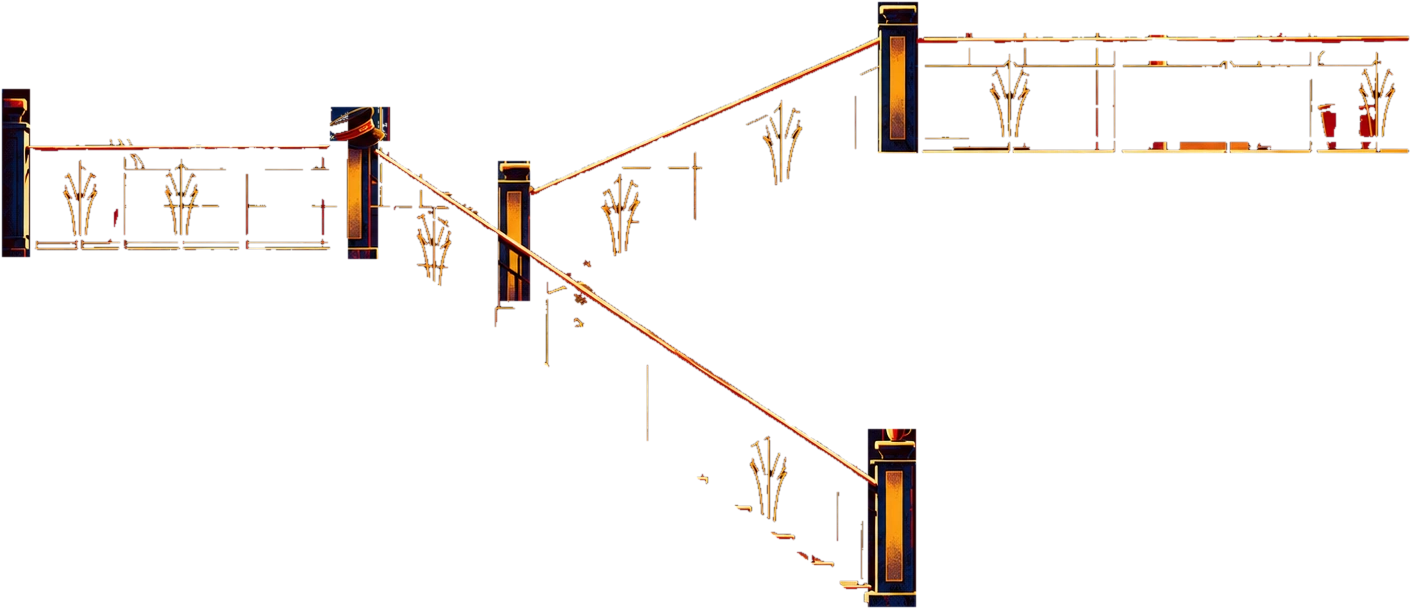
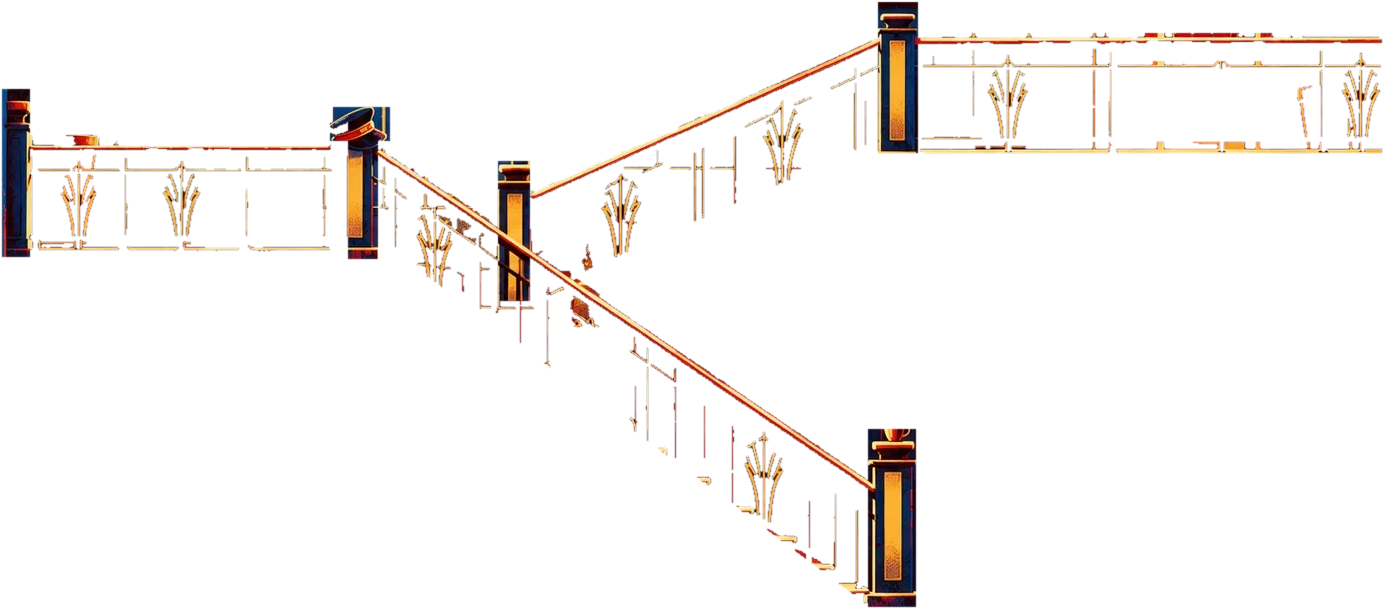
Back stairs: replace the painting with the cleaner version
Same composition, so his route is unchanged; the blank frames and the railing overlay are
re-measured for it, and below the handrails the overlay now keeps only the brass, so the
red door and the plant pots stay behind him.

Changed region(s): [[0.0, 0.0, 1.0, 0.9984]]

diff --git a/js/sprite.js b/js/sprite.js
@@ -14,7 +14,7 @@
     // below picks the frames that make two readable steps: stride, back leg lifting, legs passing,
     // reaching out again; then the same with the other arm forward.
     main: {
-      src: "assets/character/main.webp?v=1791026800", cols: 8,
+      src: "assets/character/main.webp?v=1791055875", cols: 8,
       anims: {
         idle: [0], walk: [3, 6, 1, 2, 8, 9, 13, 10],
         front: [14], front34: [15], back: [16], relaxed: [17], stride: [18], wave: [19], cheer: [20], sit: [21],
@@ -22,14 +22,14 @@
     },
     // the drop down the drain: looks down the manhole, steps off, falls, lands, fixes his glasses, grins
     drain: {
-      src: "assets/character/drain.webp?v=1791026800", cols: 8,
+      src: "assets/character/drain.webp?v=1791055875", cols: 8,
       anims: {
         peer: [0, 1, 2], stepoff: [3, 4, 5], fallStart: range(6, 11), fall: range(12, 23), fallEnd: [24, 25],
         land: range(26, 31), smile: [32], glasses: [33], stand: [34], grin: [35],
       },
     },
     // stairs: climbing (0-7) and coming down (8-15); picked by cell, see CLIMB in js/main.js
-    stairs: { src: "assets/character/stairs.webp?v=1791026800", cols: 8, anims: { climb: range(0, 7), descend: range(8, 15) } },
+    stairs: { src: "assets/character/stairs.webp?v=1791055875", cols: 8, anims: { climb: range(0, 7), descend: range(8, 15) } },
   };
   const FPS = { walk: 9, run: 13 };      // walk-cycle frames per second (run = scrolling fast)
   // he rises a little as his legs pass under him: lift per cycle frame, in box units (negative = up)

diff --git a/index.html b/index.html
@@ -8,7 +8,7 @@
   <link rel="preconnect" href="https://fonts.googleapis.com" />
   <link rel="preconnect" href="https://fonts.gstatic.com" crossorigin />
   <link href="https://fonts.googleapis.com/css2?family=Press+Start+2P&family=Silkscreen&family=VT323&family=Noto+Sans+Devanagari:wght@700&display=swap" rel="stylesheet" />
-  <link rel="stylesheet" href="styles.css?v=1791026800" />
+  <link rel="stylesheet" href="styles.css?v=1791055875" />
 </head>
 <body class="ride preloading" data-location="street">
   <!-- preloader: READY? SET... GO! -> logo -> pixel dissolve into the street (js/preloader.js) -->
@@ -36,7 +36,7 @@
     <canvas class="pl-blocks"></canvas>
     <p class="pl-skip">Click or press any key to skip</p>
   </div>
-  <script src="js/preloader.js?v=1791026800"></script>
+  <script src="js/preloader.js?v=1791055875"></script>
   <a class="skip-link" href="#subway">Skip to projects</a>
 
   <!-- HUD: menu, metro route map, skip toggle -->
@@ -213,8 +213,8 @@
   <!-- train wipe used when boarding a project -->
   <div class="train-wipe" aria-hidden="true"><div class="train-car"></div></div>
 
-  <script src="js/data.js?v=1791026800"></script>
-  <script src="js/sprite.js?v=1791026800"></script>
-  <script src="js/main.js?v=1791026800"></script>
+  <script src="js/data.js?v=1791055875"></script>
+  <script src="js/sprite.js?v=1791055875"></script>
+  <script src="js/main.js?v=1791055875"></script>
 </body>
 </html>

diff --git a/js/main.js b/js/main.js
@@ -186,9 +186,9 @@
     exit: 1390, top: 364,                        // along the top landing to the door
     strides: [8, 3],                             // strides per flight (see CLIMB)
     scale: 1.15,                                 // the room is drawn a little larger than the others
-    poster: [355, 111, 135, 213],                // big blank frame on the wall: x, y, w, h
-    frames: [[806, 260, 45, 63], [886, 218, 45, 63], [967, 178, 45, 62], [1047, 132, 45, 63]],   // small ones up the stairs
-    rails: [178, 211, 1411, 609],                // assets/backstairs/rails.png: the railings drawn in front of him
+    poster: [353, 113, 139, 214],                // big blank frame on the wall: x, y, w, h
+    frames: [[806, 261, 46, 64], [887, 219, 45, 63], [967, 179, 46, 66], [1048, 133, 50, 73]],   // small ones up the stairs
+    rails: [178, 211, 1384, 609],                // assets/backstairs/rails.png: the railings drawn in front of him
   };
 
   // assets/scenes/gallery.webp: three paintings side by side (tools/build_gallery.py prints these numbers)

diff --git a/projects.html b/projects.html
@@ -8,8 +8,8 @@
   <link rel="preconnect" href="https://fonts.googleapis.com" />
   <link rel="preconnect" href="https://fonts.gstatic.com" crossorigin />
   <link href="https://fonts.googleapis.com/css2?family=Press+Start+2P&family=Silkscreen&family=VT323&family=Noto+Sans+Devanagari:wght@700&display=swap" rel="stylesheet" />
-  <link rel="stylesheet" href="styles.css?v=1791026800" />
-  <link rel="stylesheet" href="project.css?v=1791026800" />
+  <link rel="stylesheet" href="styles.css?v=1791055875" />
+  <link rel="stylesheet" href="project.css?v=1791055875" />
 </head>
 <body class="project-page all-page" data-location="subway">
   <header class="hud">
@@ -32,7 +32,7 @@
 
   <div class="pixel-wipe" aria-hidden="true"></div>
 
-  <script src="js/data.js?v=1791026800"></script>
+  <script src="js/data.js?v=1791055875"></script>
   <script>
     (function () {
       const S = SITE, $ = (s) => document.querySelector(s);

diff --git a/project.html b/project.html
@@ -7,8 +7,8 @@
   <link rel="preconnect" href="https://fonts.googleapis.com" />
   <link rel="preconnect" href="https://fonts.gstatic.com" crossorigin />
   <link href="https://fonts.googleapis.com/css2?family=Press+Start+2P&family=Silkscreen&family=VT323&family=Noto+Sans+Devanagari:wght@700&display=swap" rel="stylesheet" />
-  <link rel="stylesheet" href="styles.css?v=1791026800" />
-  <link rel="stylesheet" href="project.css?v=1791026800" />
+  <link rel="stylesheet" href="styles.css?v=1791055875" />
+  <link rel="stylesheet" href="project.css?v=1791055875" />
 </head>
 <body class="project-page" data-location="subway">
   <header class="hud">
@@ -44,7 +44,7 @@
 
   <div class="pixel-wipe" aria-hidden="true"></div>
 
-  <script src="js/data.js?v=1791026800"></script>
+  <script src="js/data.js?v=1791055875"></script>
   <script>
     (function () {
       const list = SITE.projects;

diff --git a/tools/build_backstairs.py b/tools/build_backstairs.py
@@ -37,9 +37,11 @@ mask &= ~box(736, 538, 808, 652)                      # ...but not the cat sitti
 f2 = (xx >= 706) & (xx <= 1058)
 mask |= f2 & metal & (yy >= RAIL2(xx) - 8) & (yy < NOSE2(xx) - 6)
 # middle landing balustrade, top landing balustrade (the door behind it is lit warm too: there only the rails count)
-mask |= box(206, 350, 528, 462) & metal
-top = box(1096, 244, 1590, 364) & metal
-top &= ~box(1322, 244, 1458, 364) | box(0, 246, W, 258) | box(0, 272, W, 280) | box(0, 352, W, 364)
+# (below the handrail only brass counts, so the red door and the plant pots behind stay behind)
+brass = metal & (g > 95)
+mask |= box(206, 346, 528, 362) & metal | box(206, 362, 528, 462) & brass
+top = box(1096, 244, 1590, 260) & metal | box(1096, 260, 1590, 364) & brass
+top &= ~box(1322, 260, 1458, 364) | box(0, 272, W, 280) | box(0, 352, W, 364)
 mask |= top
 mask = nd.binary_closing(mask, iterations=1)
 lab, n = nd.label(mask)                               # drop specks (lamp glow on the wall)
